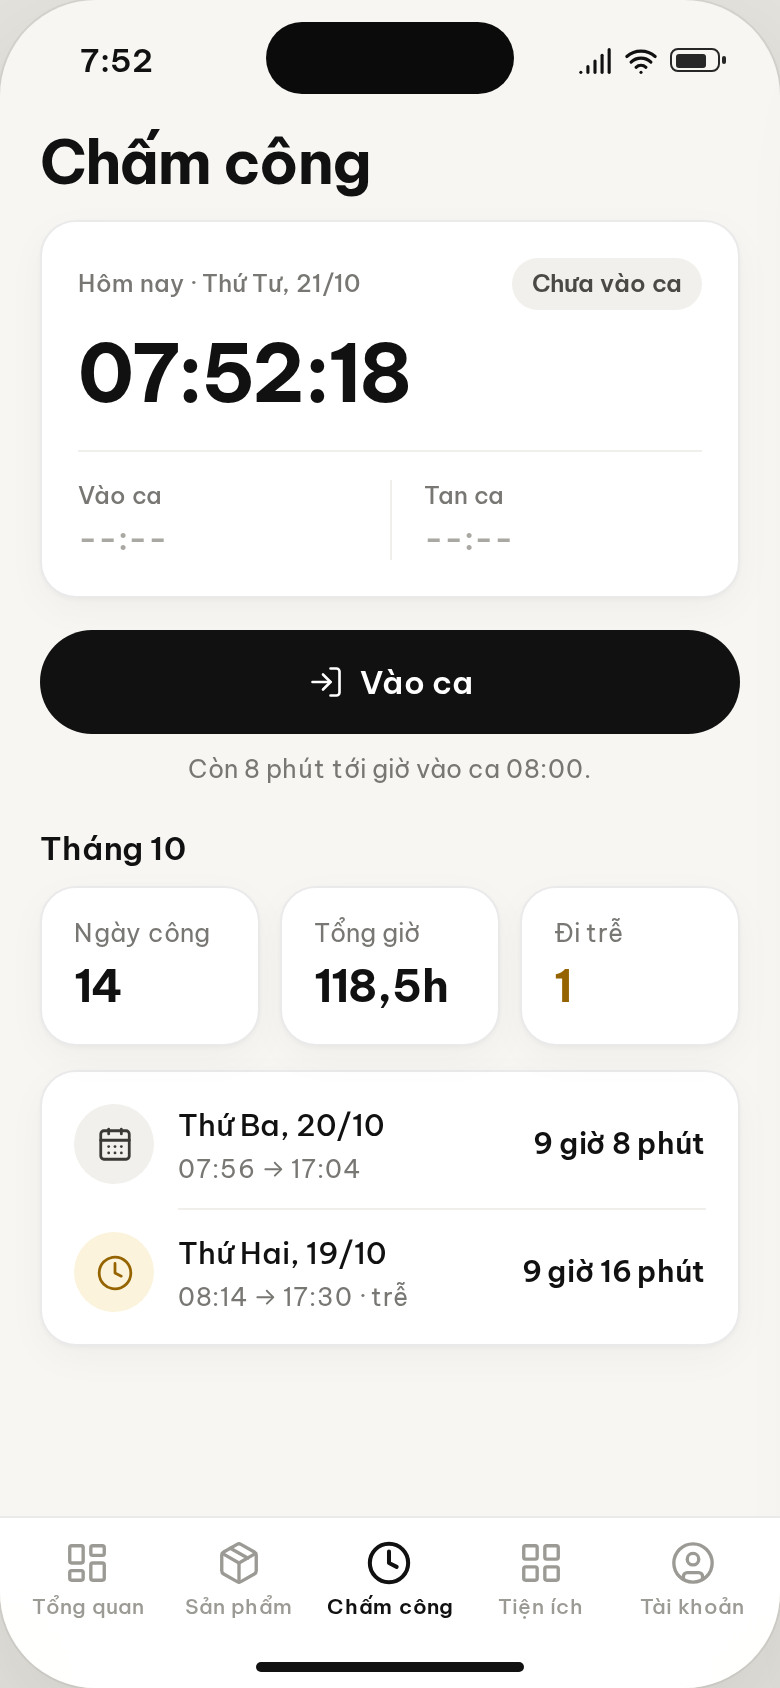
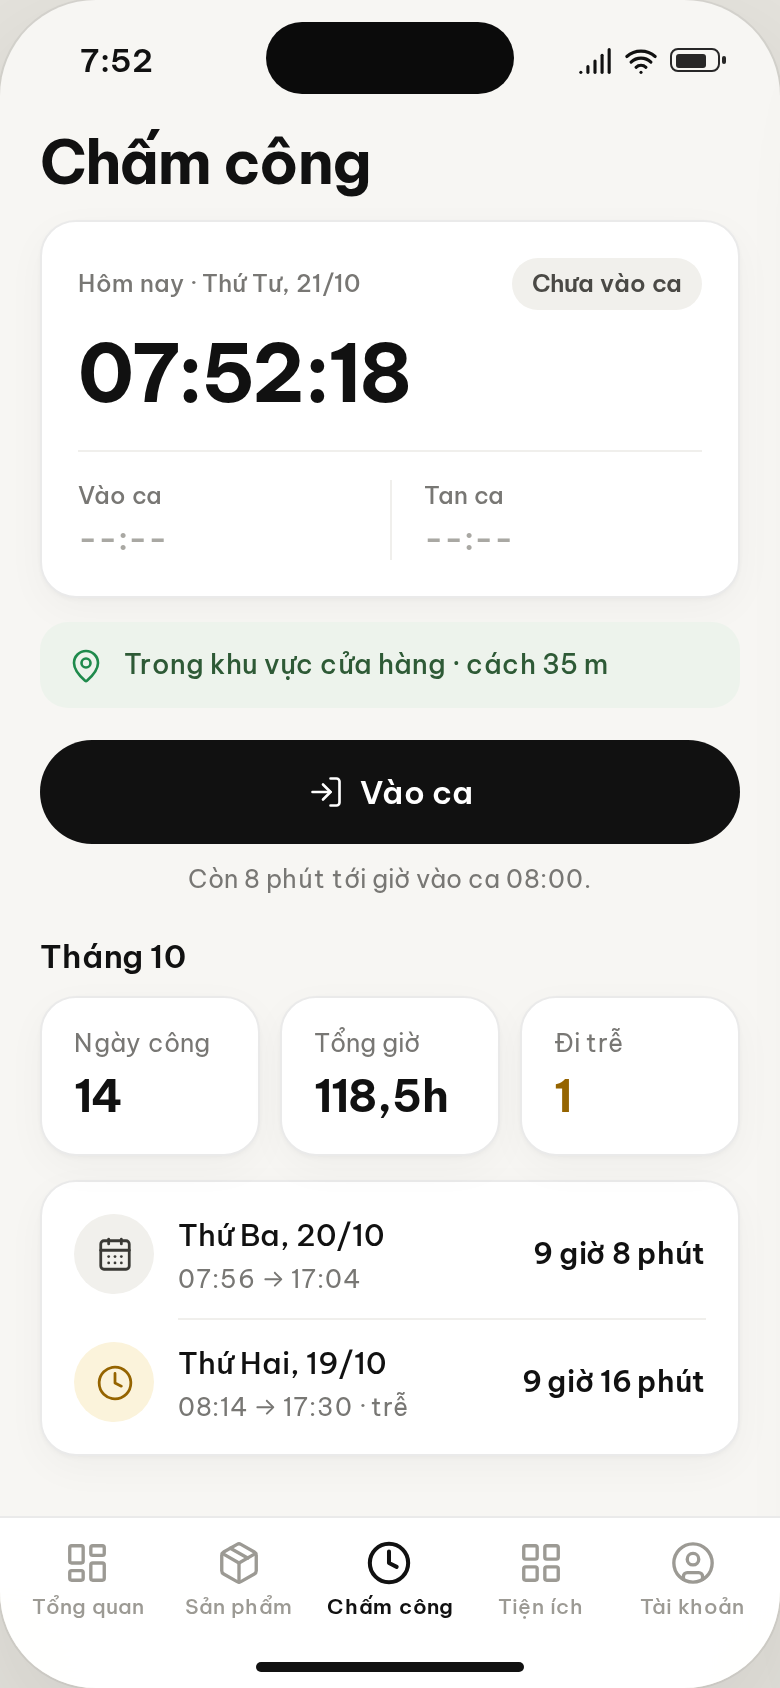
Mockup H: chấm công bằng GPS (74-76, chờ duyệt)

diff --git a/design/mockup/index.html b/design/mockup/index.html
@@ -738,7 +738,7 @@
 
   <!-- ===================== H. CHẤM CÔNG ===================== -->
   <section class="section">
-    <div class="section-label"><b>H</b> Chấm công nhân viên (chờ duyệt) · Nhân viên thêm tab “Chấm công”</div>
+    <div class="section-label"><b>H</b> Chấm công nhân viên (chờ duyệt) · Nhân viên thêm tab “Chấm công” · chấm bằng GPS trong bán kính cửa hàng</div>
     <div class="row-phones">
       <div class="frame"><div class="phone" data-shot="70-cc-chua-vao-ca" data-role="nvc" data-tab="att" data-time="7:52"><div class="screen"><div class="pad">
             <div style="height:56px;display:flex;align-items:center"><h1 class="headline">Chấm công</h1></div>
@@ -751,6 +751,7 @@
                 <div style="border-left:1px solid var(--color-outline-variant);padding-left:16px"><div class="label-s">Tan ca</div><div class="title-m num" style="margin-top:2px"><span class="faint">--:--</span></div></div>
               </div>
             </div>
+            <div class="ok-banner mt-3" style="font-size:13.5px"><i data-lucide="map-pin"></i><span class="grow">Trong khu vực cửa hàng · cách 35 m</span></div>
             <button class="btn btn-primary mt-4"><i data-lucide="log-in"></i>Vào ca</button>
             <div class="body-s muted center mt-2">Còn 8 phút tới giờ vào ca 08:00.</div>
             <div class="title-m mt-5">Tháng 10</div>
@@ -772,6 +773,7 @@
                 <div style="border-left:1px solid var(--color-outline-variant);padding-left:16px"><div class="label-s">Tan ca</div><div class="title-m num" style="margin-top:2px"><span class="faint">--:--</span></div></div>
               </div>
             </div>
+            <div class="ok-banner mt-3" style="font-size:13.5px"><i data-lucide="map-pin"></i><span class="grow">Trong khu vực cửa hàng · cách 35 m</span></div>
             <button class="btn btn-primary mt-4"><i data-lucide="log-out"></i>Tan ca</button>
             <div class="body-s muted center mt-2">Vào ca sau 08:00 được tính là đi trễ.</div>
             <div class="title-m mt-5">Tháng 10</div>
@@ -809,12 +811,72 @@
             <div class="chips mt-4" style="margin-right:-20px"><span class="chip on">Hôm nay</span><span class="chip">Hôm qua</span><span class="chip">Thứ Hai, 19/10</span><span class="chip">Chủ Nhật, 18/10</span></div>
             <div class="card mt-4"><div class="between"><div><div class="label-s">Có mặt</div><div class="num"><span class="display">3</span><span class="title-l muted"> / 4</span></div></div><span class="badge warn"><i data-lucide="clock"></i>1 đi trễ</span></div></div>
             <div class="card flush list mt-3">
-              <div class="row"><span class="avatar" style="width:40px;height:40px;font-size:14px;background:#787774">HP</span><div class="grow"><div class="t">Lê Hoàng Phúc</div><div class="s num">08:12 → đang làm</div></div><span class="tag warn" style="height:22px;font-size:11.5px;font-weight:600">Trễ</span></div>
-              <div class="row"><span class="avatar" style="width:40px;height:40px;font-size:14px;background:#787774">MT</span><div class="grow"><div class="t">Đỗ Minh Thư</div><div class="s num">07:48 → đang làm</div></div><span class="badge ok" style="height:22px">Đang làm</span></div>
-              <div class="row"><span class="avatar" style="width:40px;height:40px;font-size:14px;background:#787774">AK</span><div class="grow"><div class="t">Võ Anh Khoa</div><div class="s num">07:55 → 12:01</div></div><span class="badge ok" style="height:22px">4 giờ 6 phút</span></div>
+              <div class="row"><span class="avatar" style="width:40px;height:40px;font-size:14px;background:#787774">HP</span><div class="grow"><div class="t">Lê Hoàng Phúc</div><div class="s num">Vào 08:12 · cách 35 m</div></div><span class="tag warn" style="height:22px;font-size:11.5px;font-weight:600">Trễ</span></div>
+              <div class="row"><span class="avatar" style="width:40px;height:40px;font-size:14px;background:#787774">MT</span><div class="grow"><div class="t">Đỗ Minh Thư</div><div class="s num">Vào 07:48 · cách 12 m</div></div><span class="badge ok" style="height:22px">Đang làm</span></div>
+              <div class="row"><span class="avatar" style="width:40px;height:40px;font-size:14px;background:#787774">AK</span><div class="grow"><div class="t">Võ Anh Khoa</div><div class="s num">07:55 → 12:01 · 60 m</div></div><span class="badge ok" style="height:22px">4 giờ 6 phút</span></div>
               <div class="row"><span class="avatar" style="width:40px;height:40px;font-size:14px;background:#B9B7B0">LV</span><div class="grow"><div class="t">Ngô Lan Vy</div><div class="s num">Chưa chấm công</div></div><span class="badge" style="height:22px">Chưa vào</span></div>
             </div>
           </div></div></div><div class="frame-cap"><span>73</span>Admin: ai có mặt, ai trễ, ai chưa vào</div></div>
+      <div class="frame"><div class="phone" data-shot="74-cc-ngoai-khu-vuc" data-role="nvc" data-tab="att" data-time="7:52"><div class="screen"><div class="pad">
+            <div style="height:56px;display:flex;align-items:center"><h1 class="headline">Chấm công</h1></div>
+            <div class="card">
+              <div class="between"><span class="label-s">Hôm nay · Thứ Tư, 21/10</span><span class="badge">Chưa vào ca</span></div>
+              <div class="display num mt-2">07:52:18</div>
+              <div class="divider"></div>
+              <div style="display:grid;grid-template-columns:1fr 1fr">
+                <div><div class="label-s">Vào ca</div><div class="title-m num faint" style="margin-top:2px">--:--</div></div>
+                <div style="border-left:1px solid var(--color-outline-variant);padding-left:16px"><div class="label-s">Tan ca</div><div class="title-m num faint" style="margin-top:2px">--:--</div></div>
+              </div>
+            </div>
+            <div class="card mt-3" style="padding:0;overflow:hidden">
+              <div class="map" style="height:170px;border:0;border-radius:0">
+                <div class="river"></div>
+                <div class="blk" style="left:14px;top:14px;width:96px;height:58px"></div><div class="blk" style="left:140px;top:14px;width:114px;height:128px"></div>
+                <div style="position:absolute;left:62px;top:40px;width:84px;height:84px;border-radius:50%;background:rgba(31,138,76,.10);border:1.5px dashed rgba(31,138,76,.55)"></div>
+                <div style="position:absolute;left:94px;top:72px;width:20px;height:20px;border-radius:6px;background:#1F8A4C;box-shadow:0 0 0 3px #fff"></div>
+                <div class="me" style="left:auto;right:56px;top:auto;bottom:34px;margin:0"></div>
+              </div>
+              <div style="padding:14px 16px">
+                <div class="hstack" style="--gap:10px;align-items:flex-start"><span class="bubble sm warn"><i data-lucide="map-pin-off"></i></span>
+                  <div class="grow"><div class="w6">Bạn đang ở ngoài cửa hàng</div><div class="body-s muted" style="margin-top:2px">Cách cửa hàng 2,4 km. Cần ở trong 100 m để chấm công.</div></div></div>
+              </div>
+            </div>
+            <button class="btn btn-primary mt-4" disabled><i data-lucide="log-in"></i>Vào ca</button>
+            <div class="center mt-3"><span class="w6" style="font-size:14px"><i data-lucide="refresh-cw" style="width:15px;height:15px;vertical-align:-2px"></i> Cập nhật vị trí</span></div>
+          </div></div></div><div class="frame-cap"><span>74</span>GPS: ở ngoài 100 m → khóa nút Vào ca</div></div>
+      <div class="frame"><div class="phone" data-shot="75-cc-chua-co-vi-tri" data-role="nvc" data-tab="att" data-time="7:52"><div class="screen"><div class="pad">
+            <div style="height:56px;display:flex;align-items:center"><h1 class="headline">Chấm công</h1></div>
+            <div class="card">
+              <div class="between"><span class="label-s">Hôm nay · Thứ Tư, 21/10</span><span class="badge">Chưa vào ca</span></div>
+              <div class="display num mt-2">07:52:18</div>
+              <div class="divider"></div>
+              <div style="display:grid;grid-template-columns:1fr 1fr">
+                <div><div class="label-s">Vào ca</div><div class="title-m num faint" style="margin-top:2px">--:--</div></div>
+                <div style="border-left:1px solid var(--color-outline-variant);padding-left:16px"><div class="label-s">Tan ca</div><div class="title-m num faint" style="margin-top:2px">--:--</div></div>
+              </div>
+            </div>
+            <div class="note mt-3" style="align-items:flex-start"><i data-lucide="map-pin-off"></i><span class="grow"><b style="color:var(--color-on-surface)">Chưa lấy được vị trí</b><br>Bật Vị trí (GPS) và cho phép app dùng vị trí để chấm công tại cửa hàng.</span></div>
+            <button class="btn btn-primary mt-4"><i data-lucide="locate-fixed"></i>Bật vị trí</button>
+            <button class="btn btn-secondary mt-3" disabled><i data-lucide="log-in"></i>Vào ca</button>
+          </div></div></div><div class="frame-cap"><span>75</span>GPS tắt / chưa cho quyền</div></div>
+      <div class="frame"><div class="phone" data-shot="76-cc-admin-vi-tri" data-time="9:10"><div class="screen"><div class="appbar"><span class="back left"><i data-lucide="chevron-left"></i>Tài khoản</span><span></span><span></span></div>
+          <div class="pad">
+            <h1 class="headline">Vị trí chấm công</h1>
+            <p class="body-m muted mt-2">Nhân viên chỉ chấm công được khi ở trong vòng tròn này.</p>
+            <div class="map mt-4" style="height:220px">
+              <div class="river"></div>
+              <div class="blk" style="left:14px;top:14px;width:96px;height:58px"></div><div class="blk" style="left:140px;top:14px;width:114px;height:128px"></div><div class="blk" style="left:14px;top:160px;width:96px;height:50px"></div>
+              <div style="position:absolute;left:50%;top:50%;width:120px;height:120px;margin:-60px 0 0 -60px;border-radius:50%;background:rgba(17,17,17,.06);border:1.5px dashed rgba(17,17,17,.35)"></div>
+              <div style="position:absolute;left:50%;top:50%;width:22px;height:22px;margin:-11px 0 0 -11px;border-radius:7px;background:#111;box-shadow:0 0 0 3px #fff"></div>
+            </div>
+            <div class="card mt-3"><div class="hstack" style="--gap:12px;align-items:flex-start"><span class="bubble"><i data-lucide="store"></i></span><div class="grow"><div class="w6">Chí Nhân Store</div><div class="body-s muted" style="margin-top:2px">475A Điện Biên Phủ, Bình Thạnh · 10.80182, 106.71481</div></div></div></div>
+            <div class="label-s mt-4" style="margin-bottom:8px">Bán kính cho phép</div>
+            <div class="chips"><span class="chip">50 m</span><span class="chip on">100 m</span><span class="chip">200 m</span><span class="chip">500 m</span></div>
+          </div>
+          <div class="pad" style="position:absolute;left:0;right:0;bottom:34px">
+            <button class="btn btn-secondary"><i data-lucide="locate-fixed"></i>Đặt tại vị trí hiện tại của tôi</button>
+            <button class="btn btn-primary mt-3">Lưu</button>
+          </div></div></div><div class="frame-cap"><span>76</span>Admin đặt vị trí cửa hàng + bán kính</div></div>
     </div>
   </section>
 
